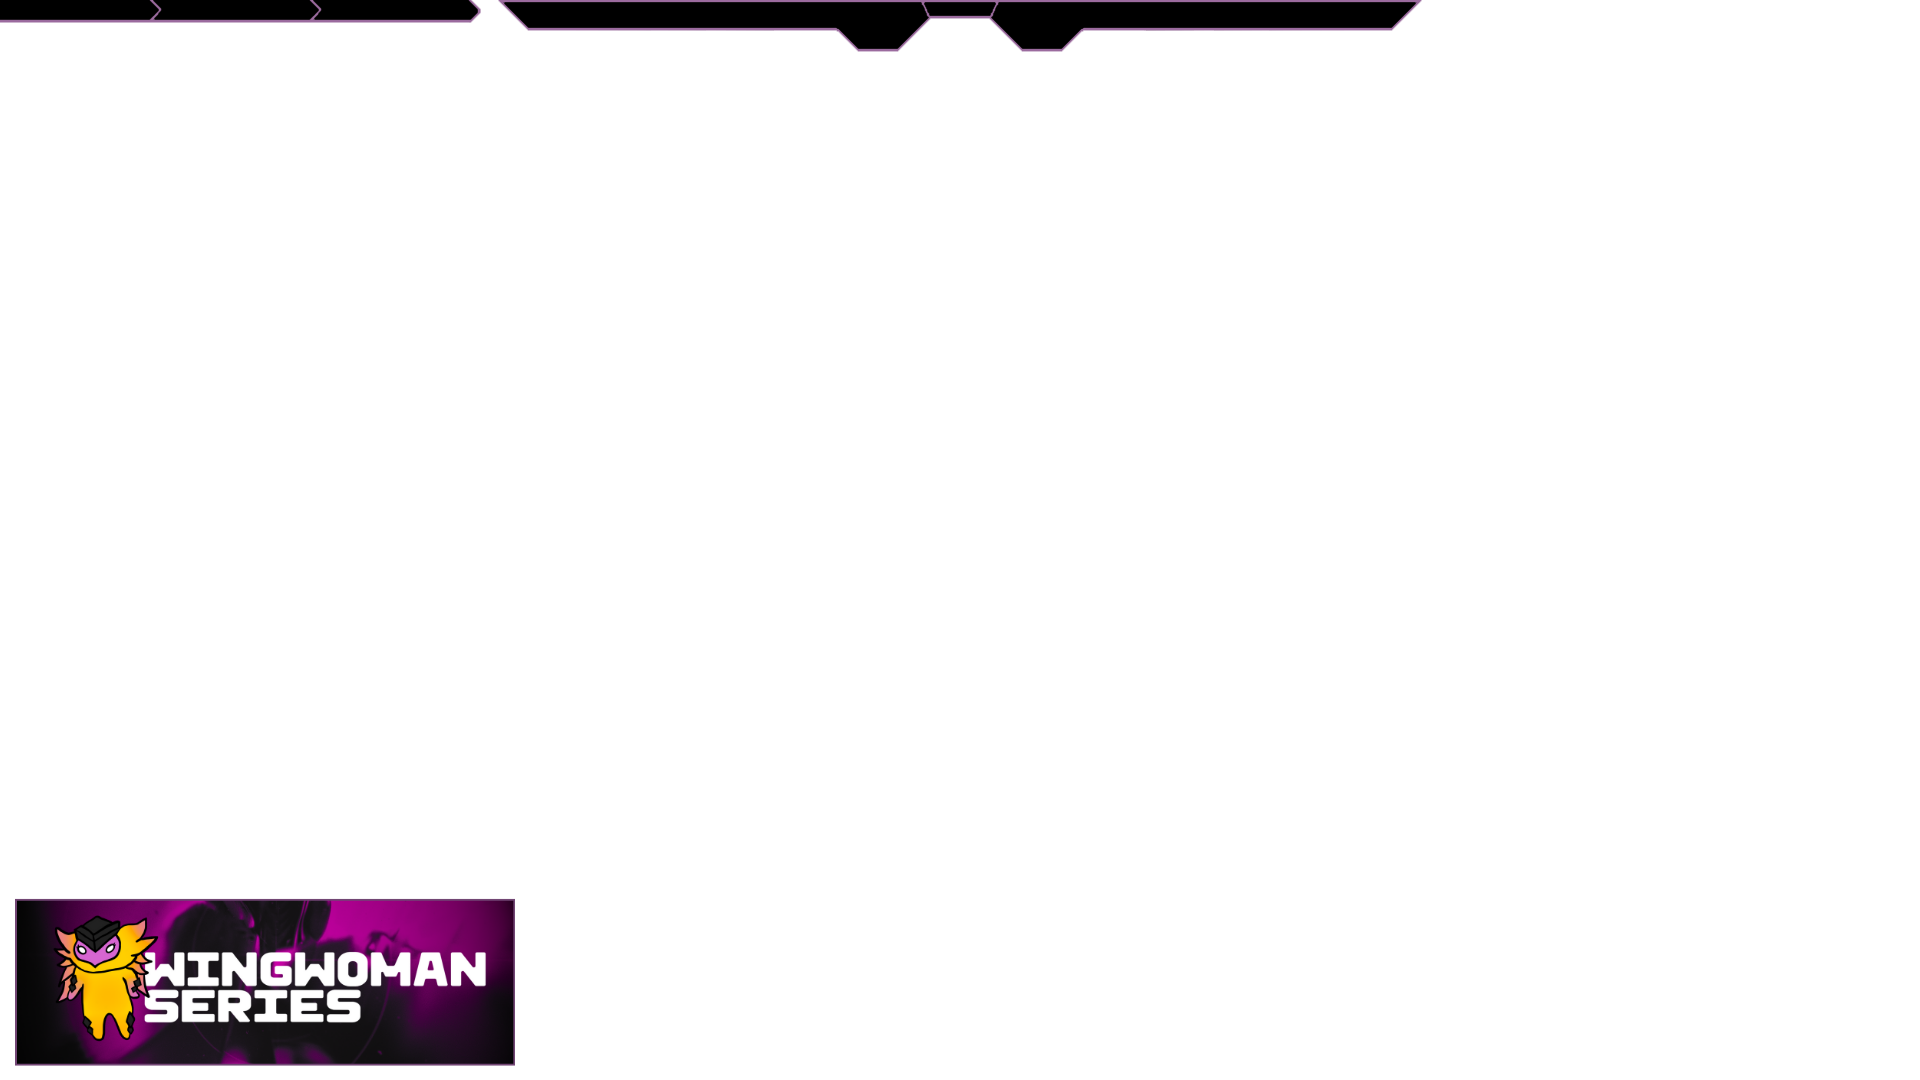
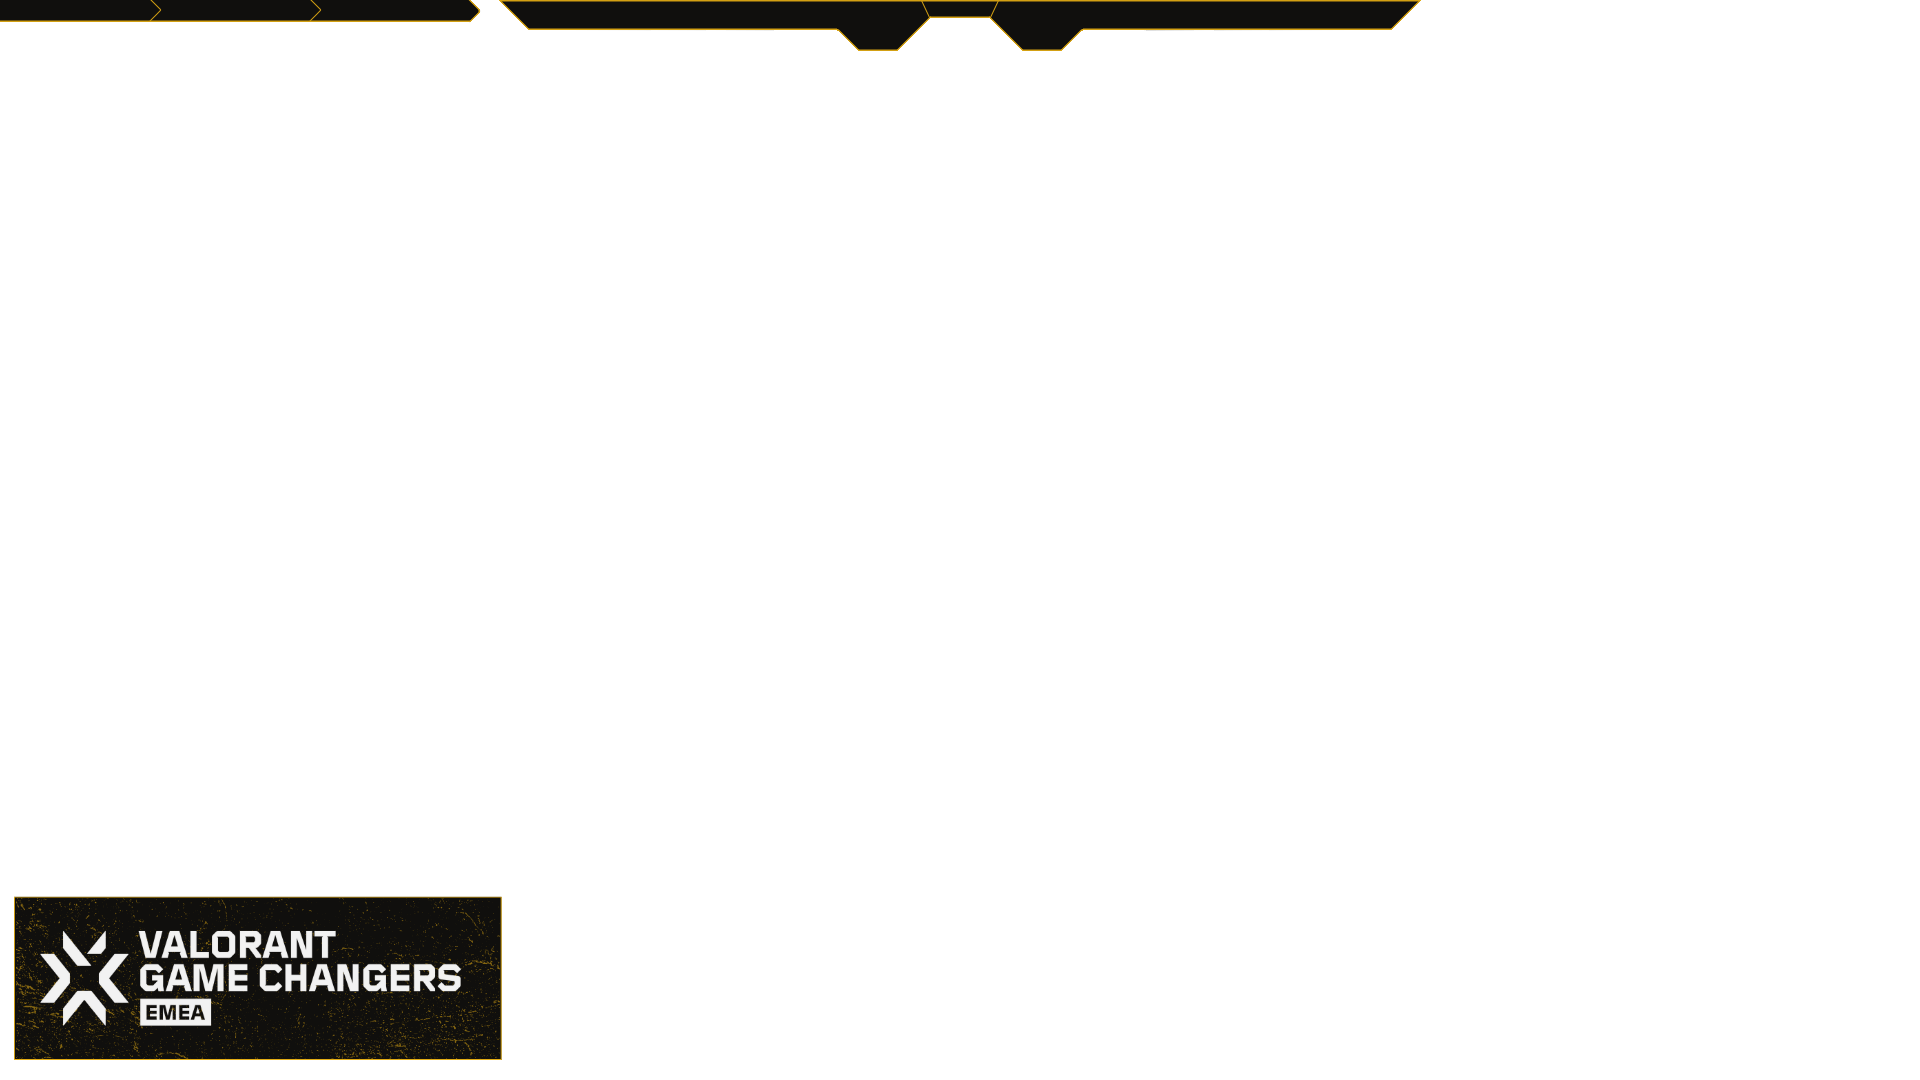
- Added Kickoff teams - Changed images to VCT GC

diff --git a/bundles/val-overlay/dashboard/settings-break-screen.js b/bundles/val-overlay/dashboard/settings-break-screen.js
@@ -47,10 +47,10 @@ settingsMatchesRep.on("change", () => {
         }
 
         for (let i = 0; i < matches.length; i++) {
-            if (matches[i].matchOrder == "previous") addMatch(matches[i], i);
+            if (matches[i].matchOrder == "match results") addMatch(matches[i], i);
         }
         for (let i = 0; i < matches.length; i++) {
-            if (matches[i].matchOrder == "next") addMatch(matches[i], i+5);
+            if (matches[i].matchOrder == "upcoming") addMatch(matches[i], i+5);
         }
     } else {
         otherMatches.hidden = true;
@@ -72,8 +72,12 @@ function addMatch(match, i) {
 
     typediv.style.width = "50px";
     buttondiv.style.width = "50px";
-    
-    typediv.innerHTML = match.matchOrder.substring(0,1).toUpperCase() + match.matchOrder.substring(1,4);
+
+    if (match.matchOrder == "match results") {
+        typediv.innerHTML = "Prev";
+    } else if (match.matchOrder == "upcoming") {
+        typediv.innerHTML = "Next";
+    }
 
     let attackerLogodiv = document.createElement("div");
     let attackerLog = document.createElement("img");

diff --git a/bundles/val-overlay/graphics/break.js b/bundles/val-overlay/graphics/break.js
@@ -26,7 +26,7 @@ function updateMatches() {
     if (breakMatchesRep.value != undefined) {
         let otherMatches = breakMatchesRep.value;
         for (let i = 0; i < otherMatches.length; i++) {
-            if (otherMatches[i].matchOrder == "previous") {
+            if (otherMatches[i].matchOrder == "match results") {
                 let score = otherMatches[i].attackerScore + " - " + otherMatches[i].defenderScore;
                 addMatch(otherMatches[i].matchOrder.toUpperCase(), otherMatches[i].attackerLogo, otherMatches[i].defenderLogo, score);
             }
@@ -44,7 +44,7 @@ function updateMatches() {
     if (breakMatchesRep.value != undefined) {
         let otherMatches = breakMatchesRep.value;
         for (let i = 0; i < otherMatches.length; i++) {
-            if (otherMatches[i].matchOrder == "next") {
+            if (otherMatches[i].matchOrder == "upcoming") {
                 addMatch(otherMatches[i].matchOrder.toUpperCase(), otherMatches[i].attackerLogo, otherMatches[i].defenderLogo);
             }
         }

diff --git a/bundles/val-overlay/graphics/overlay.css b/bundles/val-overlay/graphics/overlay.css
@@ -32,7 +32,7 @@ body {
   color: #fff;
   align-items: center;
   padding: 0px;
-  font-size: 14px;
+  font-size: 13.5px;
   width: 155px;
   height: 20px;
   display: flex;
@@ -131,7 +131,7 @@ body {
   background-color: black;
 }
 
-.score-box-outer {
+.score-box-outer-ww {
   transform: rotate(45deg);
   position: absolute;
   width: 12px;
@@ -139,7 +139,7 @@ body {
   background-color: #9B6B9E;
 }
 
-.score-box-outer-gc {
+.score-box-outer {
   transform: rotate(45deg);
   position: absolute;
   width: 12px;
@@ -147,7 +147,7 @@ body {
   background-color: #e5ae15;
 }
 
-.point-gc {
+.point-ww {
   transform: rotate(45deg);
   position: absolute;
   width: 8px;

diff --git a/bundles/val-overlay/dashboard/addMatchDialog.html b/bundles/val-overlay/dashboard/addMatchDialog.html
@@ -13,8 +13,8 @@
                         <div class="selectdiv" style="float: left">
                             <select name="Team Abbreviation" id="match-order">
                                 <option value=""></option>
-                                <option value="previous">Previous</option>
-                                <option value="next">Next</option>
+                                <option value="match results">Previous</option>
+                                <option value="upcoming">Next</option>
                             </select>
                         </div> 
                     </td>

diff --git a/bundles/val-overlay/graphics/break.css b/bundles/val-overlay/graphics/break.css
@@ -7,7 +7,7 @@ body {
     padding: 0;
     margin: 0;
     font-family: GameChangers, sans-serif;
-    background-image: url("break-background.jpg");
+    background-image: url("break-background.png");
     color: white;
 }
 
